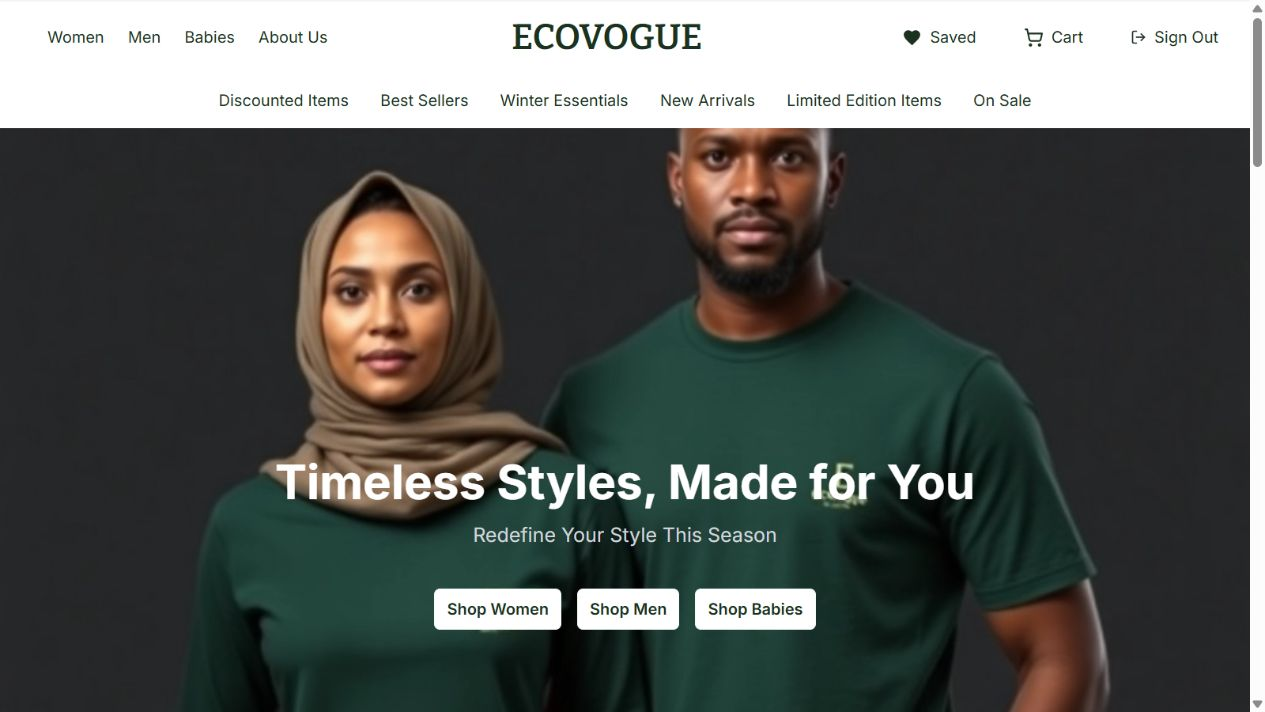
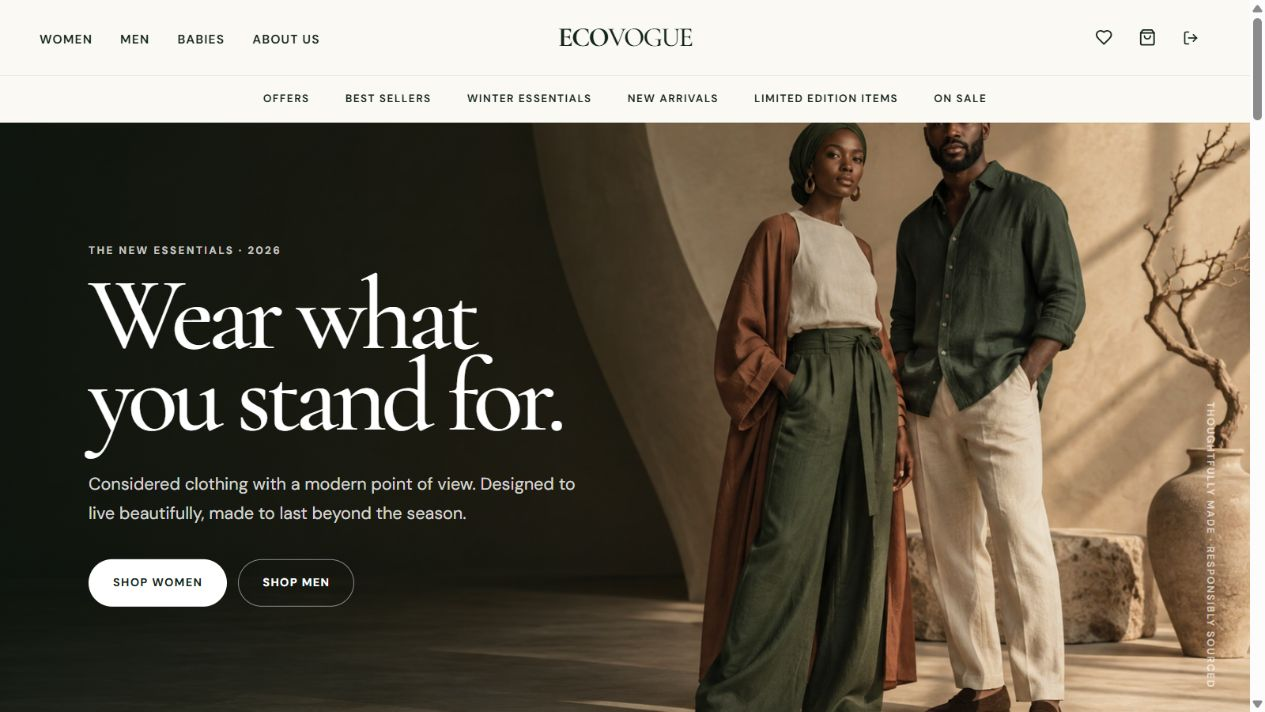
feat: refresh Ecovogue project preview

diff --git a/src/lib/projects.ts b/src/lib/projects.ts
@@ -218,7 +218,7 @@ const projectCatalog: readonly Project[] = [
       'The public storefront presents a complete discovery surface with segmented collections, merchandising areas, saved items, cart access, and account entry points.',
     image: '/projects/ecovogue.png',
     imageAlt:
-      'Ecovogue fashion storefront with campaign photography and collection navigation.',
+      'Redesigned Ecovogue homepage with a considered fashion campaign, editorial headline, and collection navigation.',
     liveUrl: 'https://ecovogue-jade.vercel.app/',
     repoUrl: 'https://github.com/Oyedelehabeeb/ecovogue',
   },
